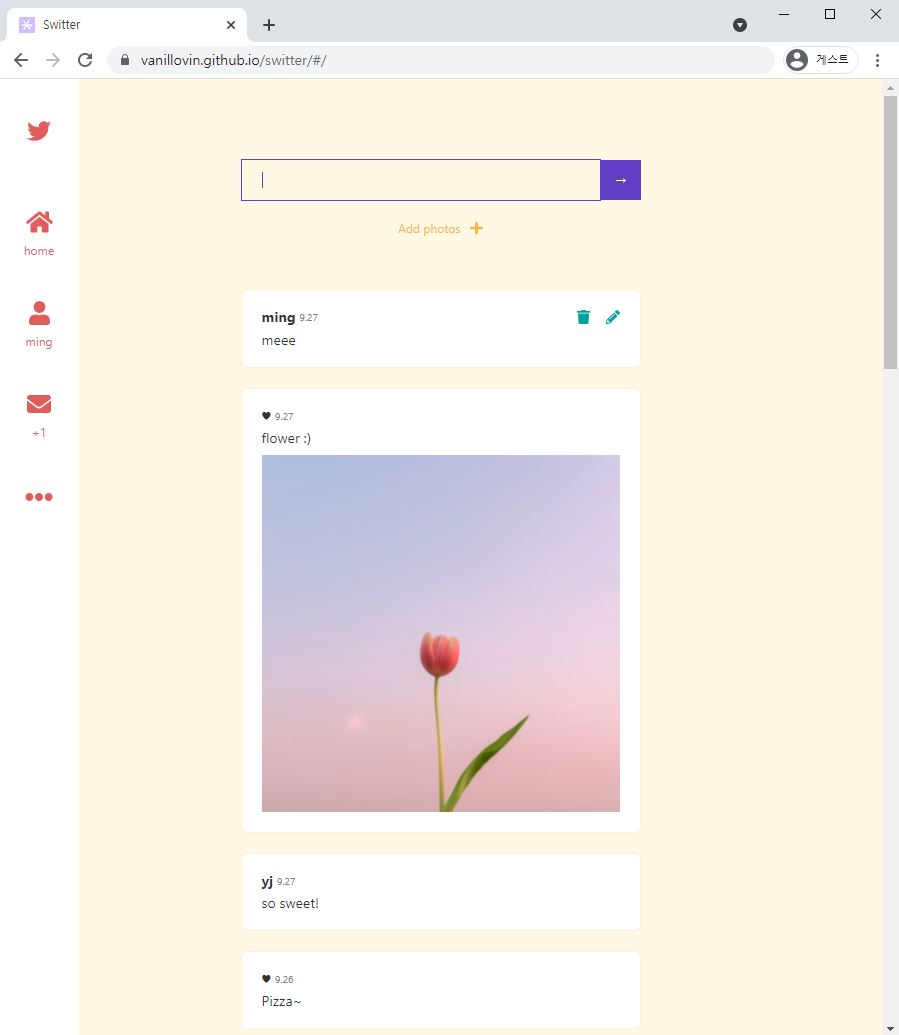
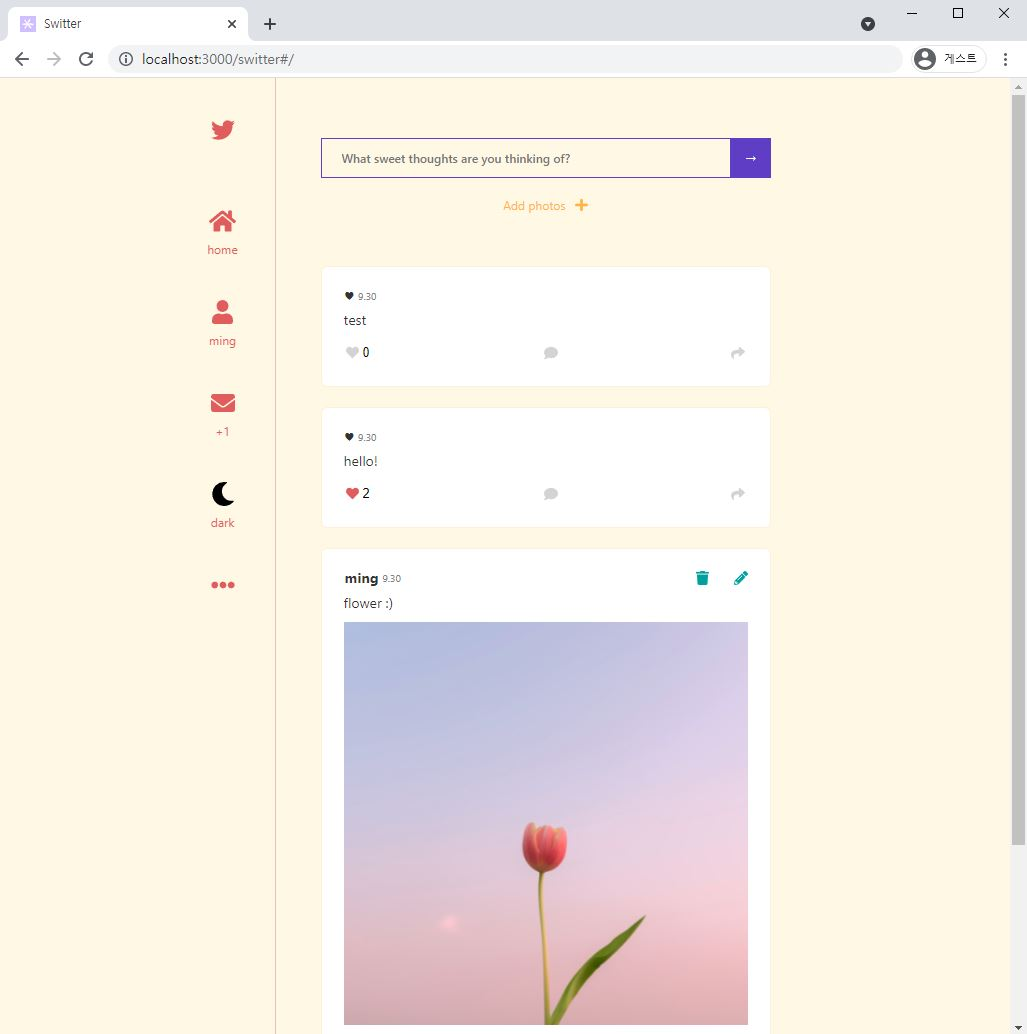
Updates

diff --git a/static/css/main.c95fd610.chunk.css b/static/css/main.c95fd610.chunk.css
@@ -1,0 +1,2 @@
+@import url(https://cdn.jsdelivr.net/npm/reset-css@5.0.1/reset.min.css);body{display:flex;width:100%;height:100%;align-items:center;justify-content:center;background-color:#fff;background-color:#fff8e5;font-family:-apple-system,BlinkMacSystemFont,"Segoe UI",Roboto,Oxygen,Ubuntu,Cantarell,"Open Sans","Helvetica Neue",sans-serif;font-size:14px}*{box-sizing:border-box}.test{display:flex;justify-content:space-between}.left{width:80px;height:100vh}.left.dark{background-color:#193446}.right{width:540px;display:flex;justify-content:center;background-color:#fff8e5;border-left:1px solid #fff;border-left:1px solid rgba(224,93,93,.4)}.right.dark{background-color:#193446;border-left:1px solid #fff}input{all:unset;box-sizing:border-box;-webkit-appearance:none;appearance:none}button{color:#000;background-color:#fff}a{text-decoration:none;color:inherit}form{width:100%}.nav{position:fixed;top:0;padding:40px 25px 0 0}.nav.dark .navlink,.nav.dark li span{color:#e7e6ed}.nav.dark li:first-child span{color:transparent}.nav.dark .navlink:hover svg{color:rgba(231,230,237,.6)}.navlink{cursor:pointer;font-size:12px;color:#e05d5d}.navlink,ul{display:flex;flex-direction:column;align-items:center}li{margin-bottom:45px}li:hover svg{color:rgba(224,93,93,.6)}li span{width:55px;margin-top:10px;text-align:center;overflow-wrap:break-word}.nav.dark li a.active span,li.logo span,li a.active span{color:transparent}.sweet-input::-webkit-input-placeholder{color:#fff;opacity:.9}.sweet-input:-ms-input-placeholder{color:#fff;opacity:.9}.sweet-input::placeholder{color:#fff;opacity:.9}form.container{width:100%;margin:60px 0 0}.container{width:450px;display:flex;align-items:center;flex-direction:column;margin-top:60px}.formInput{padding:8px 20px;border-radius:20px;border:1px solid #000;text-align:center;background-color:hsla(0,0%,100%,0);color:#000}.formBtn{font-size:12px;padding:10px 20px;text-align:center;color:#fff;border-radius:20px;background-color:#b197fc;cursor:pointer}.profileForm.dark .formBtn{background-color:#84a2bb}.profileForm{width:100%;margin:100px 0 0;border-bottom:1px solid hsla(0,0%,100%,.9);padding-bottom:30px;display:flex;flex-direction:column}.formBtn.logOut{width:100%;margin-top:25px;background-color:#000;color:#fff}.authSubmit:hover,.logOut:hover{transition:.2s linear;background-color:rgba(0,0,0,.6)}.profileForm.dark .formInput{color:#e7e6ed;border:1px solid #e7e6ed}.factoryForm{max-width:450px;display:flex;flex-direction:column;align-items:center}.factoryInput__container{display:flex;justify-content:space-between;align-items:center;flex-wrap:wrap;position:relative;margin-bottom:20px;width:100%}.factoryInput__input{flex-grow:1;height:40px;padding:0 20px;color:#5f3dc4;border:1px solid #5f3dc4;font-weight:500;font-size:12px}.factoryInput__input:focus::-webkit-input-placeholder{color:transparent}.factoryInput__input:focus:-ms-input-placeholder{color:transparent}.factoryInput__input:focus::placeholder{color:transparent}.factoryInput__arrow{cursor:pointer;display:flex;text-align:center;align-items:center;justify-content:center;background-color:#5f3dc4;width:40px;height:40px;color:#fff;border:1px solid #5f3dc4}.factoryInput__label{color:#ffb344;cursor:pointer}.factoryInput__label span{margin-right:10px;font-size:12px}.factoryForm__attachment{display:flex;flex-direction:column;justify-content:center}.factoryForm__attachment img{height:80px;width:80px;border-radius:50%}.factoryForm__clear{color:#ffb344;cursor:pointer;text-align:center;margin-top:4px}.factoryForm__clear span{margin-right:10px;font-size:12px}.factoryForm__clear:hover,.factoryInput__label:hover{color:rgba(255,179,68,.6)}.factoryForm.dark .factoryInput__input{color:#e7e6ed;border:1px solid #e9c77b}.factoryForm.dark .factoryInput__arrow{color:#000;border:1px solid #e9c77b;background-color:#e9c77b}.factoryForm.dark .factoryForm__clear,.factoryForm.dark .factoryInput__label{color:#e9c77b}.factoryForm.dark .factoryForm__clear:hover,.factoryForm.dark .factoryInput__label:hover{color:rgba(233,199,123,.6)}.sweet-container{width:100%}.sweet{margin-bottom:20px;background-color:#fff;padding:22px;border-radius:6px;position:relative;display:flex;flex-direction:column;color:rgba(0,0,0,.8);border:1px solid rgba(255,180,66,.2)}.hello{justify-content:space-between;margin-bottom:10px}.hello,.info{display:flex;align-items:center}.sweet .dname{padding-left:1px}form.sweetEdit{margin:0}.sweetEdit .formBtn{cursor:pointer;margin-top:15px;margin-bottom:5px}.sweet .sweet__text{font-size:14px;overflow-wrap:break-word}.sweet img{display:flex;flex-direction:column;width:100%;margin-top:12px}.sweet__actions{color:#00a19d}.sweet__actions span{cursor:pointer}.sweet__actions span:first-child{margin-right:25px}.cancelBtn{cursor:pointer;background-color:#e5dbff}.sweet .bottom{margin-top:14px;display:flex;align-items:center;justify-content:space-between}.sweet .heart>button{cursor:pointer;border:none;background-color:transparent;padding:4px 4px 4px 2px}.sweet.dark{background-color:#193446;border:1px solid rgba(231,230,237,.4)}.sweet.dark .dname,.sweet.dark .sweet__text{color:#e7e6ed}.sweet.dark .sweet__actions{color:#e28484}.sweet.dark .formInput::-webkit-input-placeholder{color:#e7e6ed;border:1px solid #e7e6ed}.sweet.dark .formInput:-ms-input-placeholder{color:#e7e6ed;border:1px solid #e7e6ed}.sweet.dark .formInput::placeholder,.sweet.dark input.formInput{color:#e7e6ed;border:1px solid #e7e6ed}.sweet.dark .sweetEdit .formBtn{color:#000;background-color:#84a2bb}.sweet.dark .cancelBtn{color:#000;background-color:#c4d4e0}.sweet.dark .heart>button{color:#e7e6ed}.authContainer{height:100vh;justify-content:center;align-items:center;margin-left:-80px}.authBtns,.authContainer{display:flex;flex-direction:column}.authBtns{width:400px;justify-content:space-between}.authBtn{border-radius:20px;border:none;padding:10px 0;font-size:12px;text-align:center;margin-bottom:10px;background:#d0bfff;cursor:pointer}.authBtn:hover,form.profileForm .formBtn:hover{transition:.2s linear;background:rgba(208,191,255,.6)}.authContainer{width:100%}.authInput{width:400px;padding:10px 20px;border-radius:30px;background-color:#fff;margin-bottom:10px;font-size:12px;color:#000}.authSubmit{text-align:center;background:#000;color:#fff;margin-top:10px;cursor:pointer;padding:15px}.authError{color:tomato;text-align:center;font-weight:500;font-size:12px}.authSwitch{font-weight:700;color:#5f3dc4;cursor:pointer;margin-top:10px;margin-bottom:50px;display:block;font-size:12px;text-decoration:underline}.msg-container{margin-top:60px;width:400px;height:400px;border-radius:6px;-webkit-user-select:none;-ms-user-select:none;user-select:none;background-color:#fff}.msg-container .msgh{display:flex;align-items:center;justify-content:center;color:#000;padding:15px 0;font-weight:500;border-bottom:1px solid #d3d3d3}.msgs{cursor:pointer;width:100%;color:#000;border-bottom:1px dotted #d3d3d3}.msgs .chat{display:flex;flex-direction:column;padding:20px}.mymsg{background-color:rgba(208,191,255,.4);color:#000;border-radius:20px;width:200px;padding:15px 20px}.back,.mymsg{cursor:pointer}.back{position:absolute;top:8px;left:16px;font-size:26px;color:grey}.msgs .chat:hover{transition:.2s linear;background-color:hsla(0,0%,90.2%,.2)}.back:hover{color:#000;transition:.2s linear}@media screen and (max-width:700px){.test{align-items:center;flex-direction:column}.left{width:100%;position:fixed;top:0;left:0;height:100px;background-color:#fff8e5;z-index:100}.nav{width:100%;height:100%;position:unset;padding:40px 0 0}.right{width:100%;align-items:center;border:none;margin-top:40px}.container{width:380px;padding:0 20px;margin:100px 0 0}.right.dark{border:none}.authContainer{width:400px;padding:0 10px;margin:0}.authContainer input{width:100%}.authBtns{width:400px;padding:0 30px;flex-direction:row;justify-content:space-between}.authBtns button{width:166px}form.sweetEdit{padding:0}ul{flex-direction:row}li{margin:0 6px}li.logo span{color:#e05d5d}.nav.dark li:first-child span{color:#e7e6ed}.home,.more{display:none}.sweet{padding:18px}.sweet__actions span:first-child{margin-right:18px}.profileForm{margin:0}.msg-container{margin:0;width:100%}}
+/*# sourceMappingURL=main.c95fd610.chunk.css.map */

diff --git a/index.html b/index.html
@@ -1,1 +1,1 @@
-<!doctype html><html lang="en"><head><meta charset="utf-8"/><link rel="icon" href="/switter/favicon.ico"/><meta name="viewport" content="width=device-width,initial-scale=1"/><meta name="theme-color" content="#000000"/><meta name="description" content="Web site created using create-react-app"/><link rel="manifest" href="/switter/manifest.json"/><title>Switter</title><link href="/switter/static/css/main.169088dc.chunk.css" rel="stylesheet"></head><body><noscript>You need to enable JavaScript to run this app.</noscript><div id="root"></div><script>!function(e){function t(t){for(var n,i,a=t[0],c=t[1],l=t[2],f=0,p=[];f<a.length;f++)i=a[f],Object.prototype.hasOwnProperty.call(o,i)&&o[i]&&p.push(o[i][0]),o[i]=0;for(n in c)Object.prototype.hasOwnProperty.call(c,n)&&(e[n]=c[n]);for(s&&s(t);p.length;)p.shift()();return u.push.apply(u,l||[]),r()}function r(){for(var e,t=0;t<u.length;t++){for(var r=u[t],n=!0,a=1;a<r.length;a++){var c=r[a];0!==o[c]&&(n=!1)}n&&(u.splice(t--,1),e=i(i.s=r[0]))}return e}var n={},o={1:0},u=[];function i(t){if(n[t])return n[t].exports;var r=n[t]={i:t,l:!1,exports:{}};return e[t].call(r.exports,r,r.exports,i),r.l=!0,r.exports}i.e=function(e){var t=[],r=o[e];if(0!==r)if(r)t.push(r[2]);else{var n=new Promise((function(t,n){r=o[e]=[t,n]}));t.push(r[2]=n);var u,a=document.createElement("script");a.charset="utf-8",a.timeout=120,i.nc&&a.setAttribute("nonce",i.nc),a.src=function(e){return i.p+"static/js/"+({}[e]||e)+"."+{3:"66e9b0ba"}[e]+".chunk.js"}(e);var c=new Error;u=function(t){a.onerror=a.onload=null,clearTimeout(l);var r=o[e];if(0!==r){if(r){var n=t&&("load"===t.type?"missing":t.type),u=t&&t.target&&t.target.src;c.message="Loading chunk "+e+" failed.\n("+n+": "+u+")",c.name="ChunkLoadError",c.type=n,c.request=u,r[1](c)}o[e]=void 0}};var l=setTimeout((function(){u({type:"timeout",target:a})}),12e4);a.onerror=a.onload=u,document.head.appendChild(a)}return Promise.all(t)},i.m=e,i.c=n,i.d=function(e,t,r){i.o(e,t)||Object.defineProperty(e,t,{enumerable:!0,get:r})},i.r=function(e){"undefined"!=typeof Symbol&&Symbol.toStringTag&&Object.defineProperty(e,Symbol.toStringTag,{value:"Module"}),Object.defineProperty(e,"__esModule",{value:!0})},i.t=function(e,t){if(1&t&&(e=i(e)),8&t)return e;if(4&t&&"object"==typeof e&&e&&e.__esModule)return e;var r=Object.create(null);if(i.r(r),Object.defineProperty(r,"default",{enumerable:!0,value:e}),2&t&&"string"!=typeof e)for(var n in e)i.d(r,n,function(t){return e[t]}.bind(null,n));return r},i.n=function(e){var t=e&&e.__esModule?function(){return e.default}:function(){return e};return i.d(t,"a",t),t},i.o=function(e,t){return Object.prototype.hasOwnProperty.call(e,t)},i.p="/switter/",i.oe=function(e){throw console.error(e),e};var a=this.webpackJsonpswitter=this.webpackJsonpswitter||[],c=a.push.bind(a);a.push=t,a=a.slice();for(var l=0;l<a.length;l++)t(a[l]);var s=c;r()}([])</script><script src="/switter/static/js/2.527edf6c.chunk.js"></script><script src="/switter/static/js/main.d7e9e6e4.chunk.js"></script></body></html>
+<!doctype html><html lang="en"><head><meta charset="utf-8"/><link rel="icon" href="/switter/favicon.ico"/><meta name="viewport" content="width=device-width,initial-scale=1"/><meta name="theme-color" content="#000000"/><meta name="description" content="Web site created using create-react-app"/><link rel="manifest" href="/switter/manifest.json"/><title>Switter</title><link href="/switter/static/css/main.c95fd610.chunk.css" rel="stylesheet"></head><body><noscript>You need to enable JavaScript to run this app.</noscript><div id="root"></div><script>!function(e){function t(t){for(var n,i,a=t[0],c=t[1],l=t[2],f=0,p=[];f<a.length;f++)i=a[f],Object.prototype.hasOwnProperty.call(o,i)&&o[i]&&p.push(o[i][0]),o[i]=0;for(n in c)Object.prototype.hasOwnProperty.call(c,n)&&(e[n]=c[n]);for(s&&s(t);p.length;)p.shift()();return u.push.apply(u,l||[]),r()}function r(){for(var e,t=0;t<u.length;t++){for(var r=u[t],n=!0,a=1;a<r.length;a++){var c=r[a];0!==o[c]&&(n=!1)}n&&(u.splice(t--,1),e=i(i.s=r[0]))}return e}var n={},o={1:0},u=[];function i(t){if(n[t])return n[t].exports;var r=n[t]={i:t,l:!1,exports:{}};return e[t].call(r.exports,r,r.exports,i),r.l=!0,r.exports}i.e=function(e){var t=[],r=o[e];if(0!==r)if(r)t.push(r[2]);else{var n=new Promise((function(t,n){r=o[e]=[t,n]}));t.push(r[2]=n);var u,a=document.createElement("script");a.charset="utf-8",a.timeout=120,i.nc&&a.setAttribute("nonce",i.nc),a.src=function(e){return i.p+"static/js/"+({}[e]||e)+"."+{3:"66e9b0ba"}[e]+".chunk.js"}(e);var c=new Error;u=function(t){a.onerror=a.onload=null,clearTimeout(l);var r=o[e];if(0!==r){if(r){var n=t&&("load"===t.type?"missing":t.type),u=t&&t.target&&t.target.src;c.message="Loading chunk "+e+" failed.\n("+n+": "+u+")",c.name="ChunkLoadError",c.type=n,c.request=u,r[1](c)}o[e]=void 0}};var l=setTimeout((function(){u({type:"timeout",target:a})}),12e4);a.onerror=a.onload=u,document.head.appendChild(a)}return Promise.all(t)},i.m=e,i.c=n,i.d=function(e,t,r){i.o(e,t)||Object.defineProperty(e,t,{enumerable:!0,get:r})},i.r=function(e){"undefined"!=typeof Symbol&&Symbol.toStringTag&&Object.defineProperty(e,Symbol.toStringTag,{value:"Module"}),Object.defineProperty(e,"__esModule",{value:!0})},i.t=function(e,t){if(1&t&&(e=i(e)),8&t)return e;if(4&t&&"object"==typeof e&&e&&e.__esModule)return e;var r=Object.create(null);if(i.r(r),Object.defineProperty(r,"default",{enumerable:!0,value:e}),2&t&&"string"!=typeof e)for(var n in e)i.d(r,n,function(t){return e[t]}.bind(null,n));return r},i.n=function(e){var t=e&&e.__esModule?function(){return e.default}:function(){return e};return i.d(t,"a",t),t},i.o=function(e,t){return Object.prototype.hasOwnProperty.call(e,t)},i.p="/switter/",i.oe=function(e){throw console.error(e),e};var a=this.webpackJsonpswitter=this.webpackJsonpswitter||[],c=a.push.bind(a);a.push=t,a=a.slice();for(var l=0;l<a.length;l++)t(a[l]);var s=c;r()}([])</script><script src="/switter/static/js/2.527edf6c.chunk.js"></script><script src="/switter/static/js/main.d7e9e6e4.chunk.js"></script></body></html>
